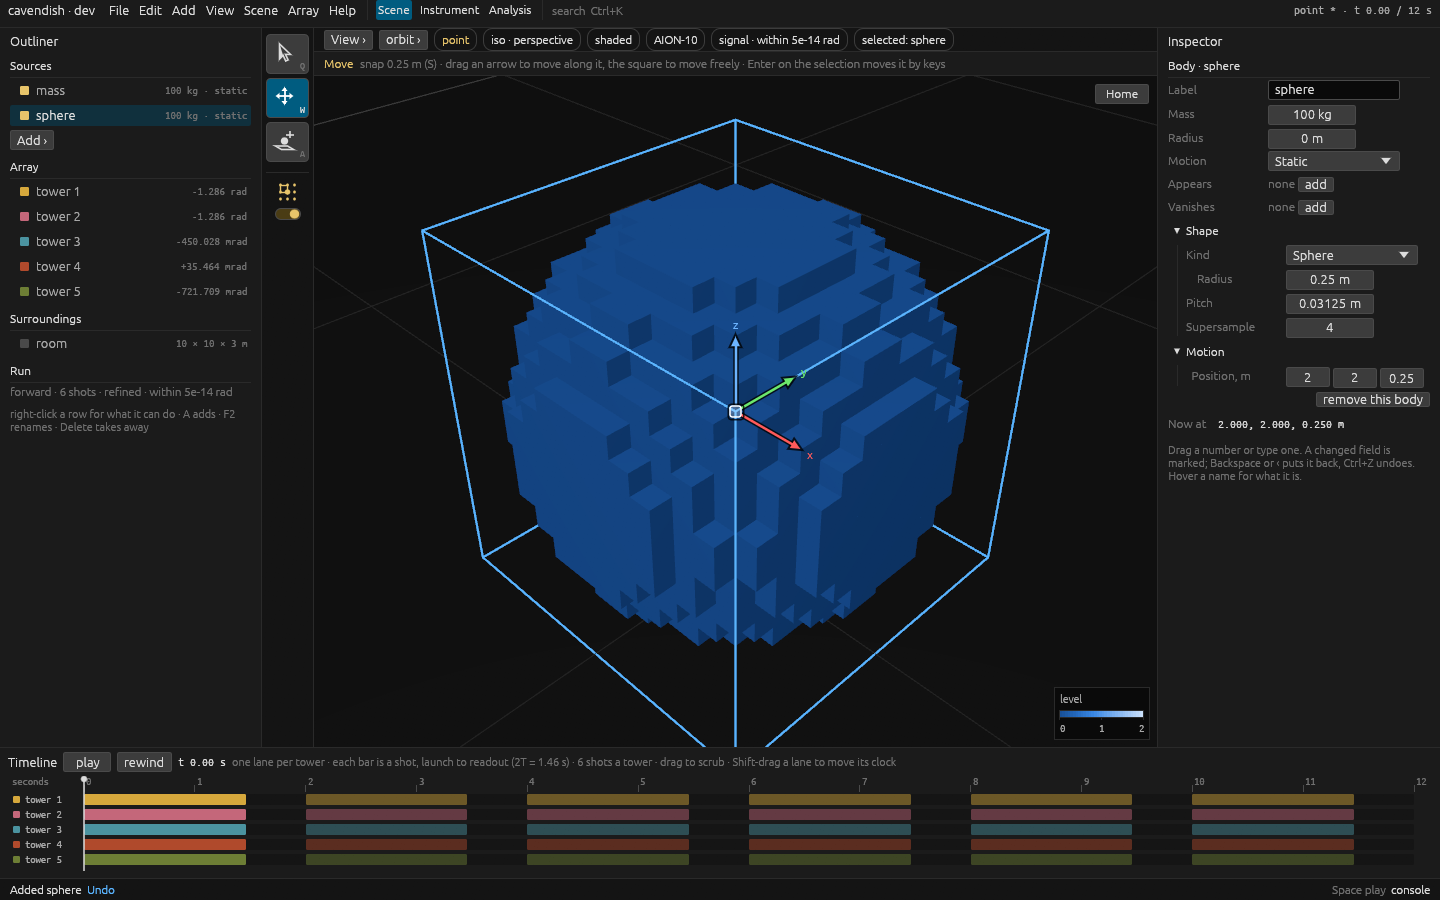
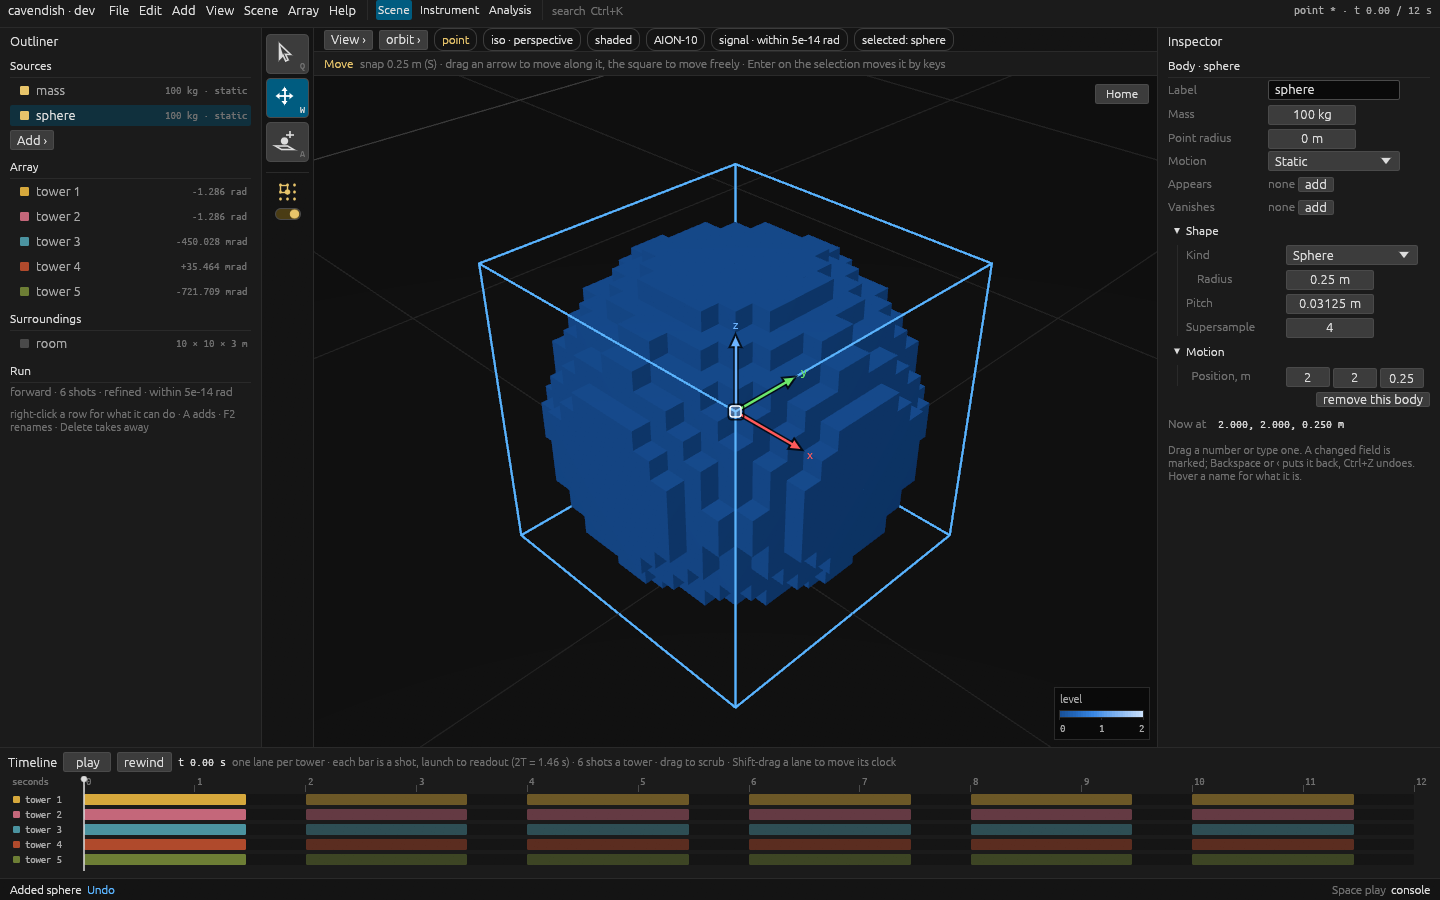
TASK-S18-22: the record of the second review's fixes
- Pictures retaken (release, each within 180 s): the wizard's tiles, the
  Place tool's grid, the framed sphere with its box in the pane, the
  history named per step inside the outliner, the one-swatch legend,
  "Point radius", the palette's word matches.
- docs/slices/S18.md section 7.8 (each finding, its fix and its tests; the
  calls; the test changes), ARCHITECTURE (Home ends a run; a session left
  ends kept), PROGRESS, tasks.
- Validation 113 of 113 against s4-big-scenes, the report unchanged; gpu 40.

Claude-Session: https://claude.ai/code/session_017UKyESvgTyJj7e3MbJhZtf

diff --git a/docs/slices/S18.md b/docs/slices/S18.md
@@ -342,3 +342,38 @@ against 3.4 ms without (budget within 2 ms). `quick` 618 tests, 25–30 s warm; 
 validation 113 of 113 against `s4-big-scenes`, the report byte for byte as it was (the fixes
 touch no physics; no case added, dropped or loosened). `oracle` 58 in 432 s and `web` green
 in 260 s, on main after the last merge (463dc1a).
+
+### 7.8 After the second review (`docs/slices/S18-review-2.md`)
+
+TASK-S18-19 to 22, PRs #178 to #181. Every test has a control arm.
+
+| Finding | Fix | Test(s) |
+|---|---|---|
+| I1 a run of sets continued through Home and rewrote Home's step | any edit ends the run, Home included (`ViewCommand::is_edit`) | `engine::tests::a_run_of_sets_is_one_step_whatever_comes_between` (set, Home, set: three steps, the last two Puts; control: an orbit, one step); `home_in_the_middle_of_a_drag_keeps_its_own_step` (control: no Home, one undo to the start) |
+| I2 a session orphaned by a click in a window or a mouse-opened window; a gizmo drag over a session | the shell's session ends, its move kept, whenever the keyboard has left its transform session, and when a primary drag starts in the view; `docs/design/keyboard.md` §8 | `a_click_in_a_window_ends_a_transform_session_keeping_its_move` (control: no session), `a_gizmo_drag_ends_a_transform_session_first` |
+| UX 1 two "Radius" fields | the body's own is titled "Point radius" | `the_inspector_says_when_it_scrolls_and_names_a_point_s_radius` |
+| UX 2 nothing to aim at with Place | the ground's grid round the aim and a ghost of the starter under the pointer | `the_place_tool_shows_where_a_click_puts_the_starter` (control: Select) |
+| UX 3 the selection box ran off the pane after F | `camera::frame_caged`: the box within `CAGE_FILL` (0.9), the body still in C3's band | `a_framed_voxel_body_keeps_its_cage_in_the_pane` (control: the plain framing puts the box past 0.9) |
+| UX 4 the history list | "Before opening: “room”", "Set mass to 5 kg on “mass”", the window inside the outliner | `the_history_says_what_happened_in_words_beside_the_figure` |
+| UX 5 "3 3 3" | a legend of one value is one swatch, "all 3" | `cav-plot` `a_legend_of_one_value_is_one_swatch` (control: two values, a bar) |
+| UX 6 the palette padded "sph" | word matches alone when there are any (`palette::word_match`) | `palette::tests::the_palette_finds_every_action_and_command` (control: "shwpn") |
+| UX 7 fifteen radios | the first body as tiles with pictures, three to a row | `the_wizard_offers_its_bodies_as_tiles` |
+| UX 8 no sign the inspector scrolls; 1.44316e-25 kg | a fade and "more below: scroll" at the foot; an atom's mass shown and typed in u | `the_inspector_says_when_it_scrolls_…` (control: a short inspector) |
+| UX 9 an Undo toast for opening a scene | none for an open | `opening_a_scene_raises_no_undo_toast` (control: an edit) |
+| Minor 1 history rows named by today's index | each step named from the scene just after it (`dialogs::history_words`, cached by generation) | `the_history_says_…` (control: today's naming says "body 2") |
+| Minor 2 the reset's not-drawn untested | the reset is in the layout's buttons only when drawn | `the_inspector_says_when_it_scrolls_…` |
+| Minors 3, 4 the right-button fly | every non-global key held back; it ends when the pointer leaves or the window loses focus | `the_right_button_flies_and_holds_the_letters` (control: after release, 2 selects) |
+| Minors 5, 7 clicks in windows | the top window by egui's layer; a window's ground lands on its first section | `keyboard::tests::a_click_in_overlapping_windows_finds_the_top_one_and_a_section` |
+| Minor 6 snap under "Tools" | the scope is the "Tool strip"; snap is no tool on the sheet | `the_tool_strip_has_one_name_a_tool_and_snap_apart` (control: Place says "Tool: Place") |
+
+**Decided.** A session the keyboard leaves ends *kept* (Blender's click), Esc being the only
+cancel; the Place grid shows whenever Place is in hand (round the pane's middle without a
+pointer), the ghost only under the pointer; a body's own radius is named, not hidden, so every
+field keeps its editor (E6); `CAGE_FILL` 0.9 is a new bound of the framing, beside FILL 0.6.
+
+**Changes to tests, with reasons.** `a_legend_is_made_from_what_is_drawn` and
+`a_voxel_view_is_a_vector_figure` expect "all 2.5" for the cube's one-height legend (they held
+the repeated number UX 5 is about). The history test's expected words are today's naming (the
+control) beside the new per-step naming.
+
+**Numbers.** `quick` 628. Pictures retaken (release, each within 180 s).

diff --git a/plan/PROGRESS.md b/plan/PROGRESS.md
@@ -9,10 +9,24 @@ The builder updates this after every slice. The owner reads it at checkpoints.
 | S2 scenes as files | done: TASK-S2-01 to 20 merged; reviewed twice, nothing important remains | `s2-scenes-as-files` | brief and results: `docs/slices/S2.md` (§7); screenshots, transcripts and sample figures: `docs/slices/S2/`; validation: `docs/validation/report.md`; research: `docs/research/s2-replay-spec-paths-cadence.md`; for contributors: `docs/ARCHITECTURE.md`, `CONTRIBUTING.md`, `docs/extending/` |
 | S3 voxel bodies | done: TASK-S3-01 to 26 merged; reviewed twice, the second review's one important finding fixed (#115) | `s3-voxel-bodies` | brief and results: `docs/slices/S3.md` (§7, §8 after the review); screenshots, a session and timings: `docs/slices/S3/`; validation: `docs/validation/report.md`; research: `docs/research/s3-sparse-voxel-structures.md` and its review; recipes: `docs/extending/a-shape.md`, `a-voxel-body.md` |
 | S4 big scenes | done: TASK-S4-01 to 25 merged; reviewed three times (`docs/slices/S4-review.md`, `-2`, `-3`), nothing important remains; oracle 58/58, validation 113/113 | `s4-big-scenes` | brief and results: `docs/slices/S4.md` (§7.7–§7.8: the fixes); screenshots, traces and paper drawings: `docs/slices/S4/`; recipe: `docs/extending/a-world-piece.md` |
-| S18 the editor | built: TASK-S18-01 to 04 and 07 to 11 merged; first review's fixes merged (TASK-S18-12 to 18); awaiting re-review | | brief: `docs/slices/S18.md` (§7.7: the fixes); review: `docs/slices/S18-review.md`; research: `docs/research/editor-ux.md`; requirement: `docs/design/keyboard.md` |
+| S18 the editor | built: TASK-S18-01 to 04 and 07 to 11 merged; both reviews' fixes merged (TASK-S18-12 to 22); awaiting a third look or the tag | | brief: `docs/slices/S18.md` (§7.7, §7.8: the fixes); reviews: `docs/slices/S18-review.md`, `-2`; research: `docs/research/editor-ux.md`; requirement: `docs/design/keyboard.md` |
 | S17 in the browser | done: TASK-S17-01 to 10 merged; live at https://ma1achy.github.io/Cavendish/; reviewed twice, nothing important remains | `s17-in-the-browser` | brief and results: `docs/slices/S17.md` (§7.8: the fixes); screenshots: `docs/slices/S17/`; research: `docs/research/web-build-and-pages.md`; site: https://ma1achy.github.io/Cavendish/ |
 
-## S18 after its first review (25 Nov 2026) — fixes done, awaiting re-review
+## S18 after its second review (25 Nov 2026) — fixes done
+
+**Done** (TASK-S18-19 to 22, PRs #178–#181; `docs/slices/S18.md` §7.8). I1: Home ends a run of
+sets, so it keeps its own step. I2: a transform session ends, its move kept, when the keyboard
+leaves it or a drag starts (keyboard.md §8). UX 1–9: "Point radius"; the Place tool's grid and
+ghost; F keeps a voxel body's box in the pane; the history named from each step's own scene and
+worded "Set mass to 5 kg on “mass”", inside the outliner; one swatch for one value; the palette's
+word matches alone; the wizard's bodies as tiles; the inspector says it scrolls, atom mass in u;
+no toast for opening. Minors 1–7 done.
+
+**Numbers.** `quick` 628; gpu, oracle, web and validation: see the line below once run on main.
+
+**Next.** A third look, or the tag `s18-the-editor`; then S5 or S19.
+
+## S18 after its first review (25 Nov 2026) — fixes done, re-reviewed
 
 **Done** (TASK-S18-12 to 18, PRs #169–#175; `docs/slices/S18.md` §7.7, a row a finding). R1: a
 transform session holds every key but the globals, a global cancels it first, and it checks its

diff --git a/docs/ARCHITECTURE.md b/docs/ARCHITECTURE.md
@@ -142,9 +142,10 @@ Every edit, from the viewport, a panel, a key or the palette, ends in one `Comma
 `Engine::apply`: the gizmo, the transform session and the inspector's field all issue the same
 `Set` of a body's anchor; a run of them (a drag, a held key, a typed distance) is one undo whatever
 comes between its steps (seeks while the scene plays, camera moves: the engine keeps the run's
-path until another edit: the engine's private `run`), and a run that ends where it began leaves no step
+path until another edit, Home included: the engine's private `run`), and a run that ends where it began leaves no step
 (`History::continued`). A transform session holds every key that is not a global; a global ends it
-cancelled first. Camera
+cancelled first, and anything that takes the keyboard out of it (a click in a window, a drag in
+the view) ends it with its move kept. Camera
 moves are `ViewCommand`s, journalled and never undone, but for `Home`, whose `Edit::View` step
 undo takes back. The engine keeps the scene as last opened or saved (`Engine::baseline`) for a
 field's reset and the window's unsaved mark.
